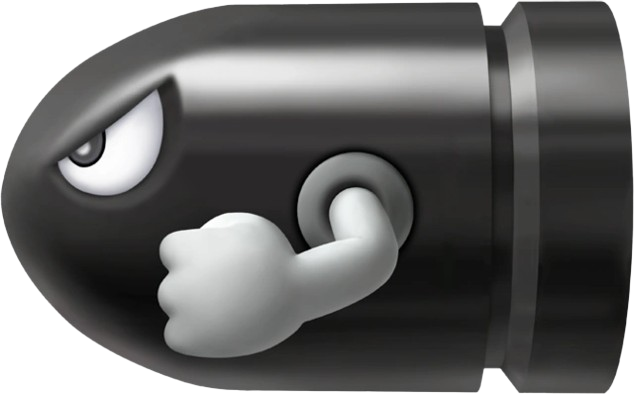
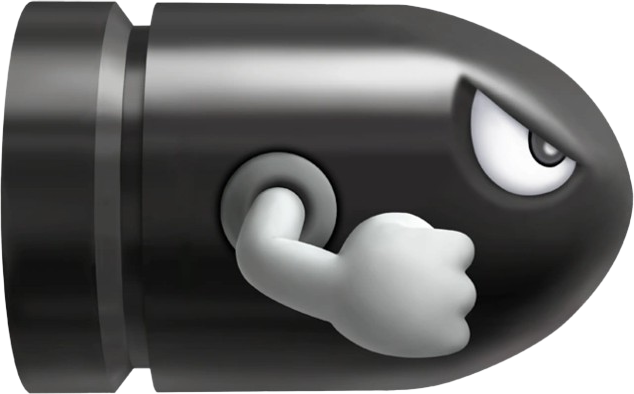
Working on TwinTurrets + added turret and modified bullet sprites
Working on the functionality of the twin turrets powerUp, need to see if refactoring the code to move the weapons to their own classes is better.

diff --git a/AA2_MaximoAlbero/source/Player.h b/AA2_MaximoAlbero/source/Player.h
@@ -7,6 +7,7 @@
 #include "IAttacker.h"
 #include "IDamageable.h"
 #include "TimeManager.h"
+#include <cmath>
 
 class Player : public ImageObject, public IAttacker, public IDamageable
 {
@@ -39,6 +40,18 @@ private:
 	Vector2 topTurretOffset = Vector2(0.f, -50.f);
 	Vector2 bottomTurretOffset = Vector2(0.f, 50.f);
 
+	// Variables para rotación de torretas
+	float topTurretRotation = 0.f;       // Rotación "internа" (se usa -topTurretRotation para el transform)
+	float bottomTurretRotation = 0.f;    // Rotación interna (aplicada directamente al transform)
+	float maxTurretRotation = 180.f;     // Máximo ángulo de rotación
+	float turretRotationSpeed = 150.f;   // (no usado con el nuevo método, se conserva si quieres seguimiento por tiempo)
+	Vector2 previousPosition;
+
+	// Nuevo: acumulador de distancia en X para la regla "45º cada 100 unidades"
+	float turretXAccumulator = 0.f;
+	const float rotationPerStep = 45.f;      // grados por paso
+	const float distancePerStep = 100.f;     // unidades X por paso
+
 public:
 	Player()
 		: ImageObject("resources/caballo.png", Vector2(0.f, 0.f), Vector2(306.f, 562.f)) {
@@ -54,6 +67,8 @@ public:
 		maxSpeed = 1.0f;
 
 		_physics->AddCollider(new AABB(_transform->position, _transform->size));
+
+		previousPosition = _transform->position;
 	}
 
 	~Player() {
@@ -78,7 +93,10 @@ public:
 		Move();
 		CheckBorders();
 		UpdateImmunity();
+		UpdateTurretRotation();
 		UpdateAttachments();
+
+		previousPosition = _transform->position;
 		Object::Update();
 	}
 
@@ -100,7 +118,6 @@ public:
 	}
 
 	void UpdateAttachments() {
-		// Actualizar posiciones de todos los attachments
 		if (hasCannon && _cannon) {
 			_cannon->GetTransform()->position = _transform->position + cannonOffset;
 			_cannon->Update();
@@ -113,12 +130,47 @@ public:
 
 		if (numOfTurrets >= 1 && _topTurret) {
 			_topTurret->GetTransform()->position = _transform->position + topTurretOffset;
+			_topTurret->GetTransform()->rotation = -topTurretRotation;  // Negativo = rota hacia arriba
 			_topTurret->Update();
 		}
 
 		if (numOfTurrets >= 2 && _bottomTurret) {
 			_bottomTurret->GetTransform()->position = _transform->position + bottomTurretOffset;
+			_bottomTurret->GetTransform()->rotation = bottomTurretRotation;  // Positivo = rota hacia abajo
 			_bottomTurret->Update();
+		}
+	}
+
+	// Nueva lógica: 45º por cada 100 unidades recorridas en X.
+	void UpdateTurretRotation() {
+		if (numOfTurrets == 0) return;
+
+		// Delta X recorrido desde el frame anterior
+		float deltaX = _transform->position.x - previousPosition.x;
+		if (deltaX == 0.f) return;
+
+		// Acumula el desplazamiento en X
+		turretXAccumulator += deltaX;
+
+		// Si alcanzamos uno o más "pasos" de distancePerStep, aplicamos rotación por pasos
+		while (std::abs(turretXAccumulator) >= distancePerStep) {
+			int stepSign = (turretXAccumulator > 0.f) ? 1 : -1;
+			// Aplicar cambio de ángulo: +45º por paso si se mueve a la derecha (signo positivo),
+			// -45º por paso si se mueve a la izquierda (signo negativo).
+			float deltaAngle = rotationPerStep * static_cast<float>(stepSign); 
+
+			// Incrementar rotaciones internas (se usan signos al renderizar)
+			topTurretRotation += deltaAngle;
+			bottomTurretRotation += deltaAngle;
+
+			// Limitar entre 0 y maxTurretRotation (como en tu diseño original)
+			if (topTurretRotation > maxTurretRotation) topTurretRotation = maxTurretRotation;
+			if (topTurretRotation < 0.f) topTurretRotation = 0.f;
+			if (bottomTurretRotation > maxTurretRotation) bottomTurretRotation = maxTurretRotation;
+			if (bottomTurretRotation < 0.f) bottomTurretRotation = 0.f;
+
+			// Quitar el paso aplicado del acumulador (mantener resto)
+			turretXAccumulator -= static_cast<float>(stepSign) * distancePerStep;
 		}
 	}
 
@@ -150,7 +202,6 @@ public:
 				Vector2(100.f, 50.f)
 			);
 			_cannon->GetTransform()->scale = Vector2(0.4f, 0.4f);
-			cannonAmmo = maxAmmo;
 			std::cout << "Cannon equipped!" << std::endl;
 		}
 		else {
@@ -168,7 +219,6 @@ public:
 				Vector2(120.f, 40.f)
 			);
 			_laser->GetTransform()->scale = Vector2(0.35f, 0.35f);
-			laserAmmo = maxAmmo;
 			std::cout << "Laser equipped!" << std::endl;
 		}
 		else {
@@ -184,26 +234,22 @@ public:
 
 	void AddTwinTurrets() {
 		if (numOfTurrets == 0) {
-			// Crear torreta superior
 			_topTurret = new ImageObject(
-				"resources/image.png",
+				"resources/turret.png",
 				Vector2(0.f, 0.f),
-				Vector2(80.f, 40.f)
+				Vector2(482.f, 180.f)
 			);
 			_topTurret->GetTransform()->scale = Vector2(0.5f, 0.5f);
-
 			numOfTurrets = 1;
 			std::cout << "Top turret equipped!" << std::endl;
 		}
 		else if (numOfTurrets == 1) {
-			// Crear torreta inferior
 			_bottomTurret = new ImageObject(
-				"resources/image.png",
+				"resources/turret.png",
 				Vector2(0.f, 0.f),
-				Vector2(80.f, 40.f)
+				Vector2(482.f, 180.f) 
 			);
 			_bottomTurret->GetTransform()->scale = Vector2(0.5f, 0.5f);
-
 			numOfTurrets = 2;
 			std::cout << "Bottom turret equipped!" << std::endl;
 		}
@@ -251,18 +297,33 @@ public:
 			laserAmmo--;
 		}
 
+		const float PI = 3.14159265f;
+
 		// Disparo de torreta superior
 		if (numOfTurrets >= 1 && _topTurret) {
 			Vector2 topTurretPos = _topTurret->GetTransform()->position;
-			Vector2 topBulletOffset = Vector2(_topTurret->GetTransform()->size.x * 0.5f, 0.f);
-			SPAWNER.SpawnObject(new PlayerBullet(topTurretPos + topBulletOffset));
+			float angleDeg = _topTurret->GetTransform()->rotation; // en grados
+			float rad = angleDeg * PI / 180.0f;
+
+			// Calcula la distancia hasta la punta de la torreta considerando la escala
+			float tipDistance = _topTurret->GetTransform()->size.x * 0.5f * _topTurret->GetTransform()->scale.x;
+
+			// Offset rotado: (cos(rad)*dx, sin(rad)*dx) porque el offset original era (dx,0)
+			Vector2 topBulletOffset = Vector2(std::cos(rad) * tipDistance, std::sin(rad) * tipDistance);
+
+			SPAWNER.SpawnObject(new PlayerBullet(topTurretPos + topBulletOffset, angleDeg));
 		}
 
 		// Disparo de torreta inferior
 		if (numOfTurrets >= 2 && _bottomTurret) {
 			Vector2 bottomTurretPos = _bottomTurret->GetTransform()->position;
-			Vector2 bottomBulletOffset = Vector2(_bottomTurret->GetTransform()->size.x * 0.5f, 0.f);
-			SPAWNER.SpawnObject(new PlayerBullet(bottomTurretPos + bottomBulletOffset));
+			float angleDeg = _bottomTurret->GetTransform()->rotation; // en grados
+			float rad = angleDeg * PI / 180.0f;
+
+			float tipDistance = _bottomTurret->GetTransform()->size.x * 0.5f * _bottomTurret->GetTransform()->scale.x;
+			Vector2 bottomBulletOffset = Vector2(std::cos(rad) * tipDistance, std::sin(rad) * tipDistance);
+
+			SPAWNER.SpawnObject(new PlayerBullet(bottomTurretPos + bottomBulletOffset, angleDeg));
 		}
 	}
 };

diff --git a/AA2_MaximoAlbero/source/Bullet.h b/AA2_MaximoAlbero/source/Bullet.h
@@ -8,7 +8,7 @@ class Bullet : public ImageObject, public IAttacker
 public:
 
 	Bullet() //Bullet(Vector2 initPosition)
-		: ImageObject("resources/BulletBill.png", Vector2(0.f, 0.f), Vector2(100.f, 100.f)) 
+		: ImageObject("resources/BulletBill.png", Vector2(0.f, 0.f), Vector2(634.f, 394.f)) 
 	{
 		//_transform->position = initPosition;
 		_transform->scale = Vector2(0.5f, 0.15f);

diff --git a/AA2_MaximoAlbero/source/Game.cpp b/AA2_MaximoAlbero/source/Game.cpp
@@ -32,6 +32,7 @@ void Game::Init() {
 	RM->LoadTexture("resources/BulletBill.png");
 	RM->LoadTexture("resources/BillBuster.png");
 	RM->LoadTexture("resources/bat.png");
+	RM->LoadTexture("resources/turret.png");
 
 	//RM->LoadFont("resources/fonts/cider_gum.ttf");
 	RM->LoadFont("resources/fonts/hyperspace.ttf");
